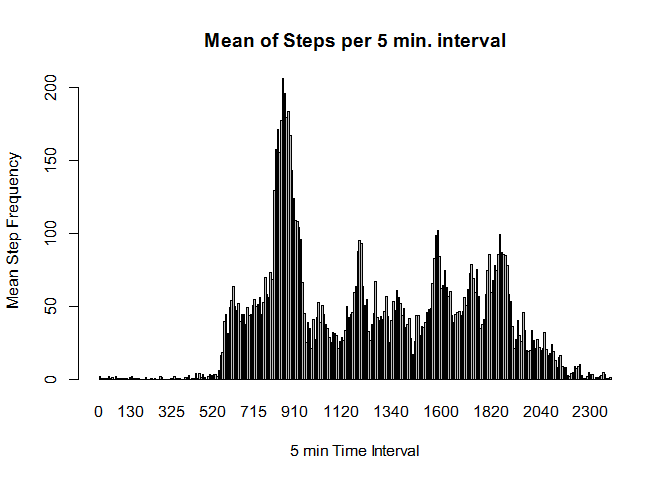
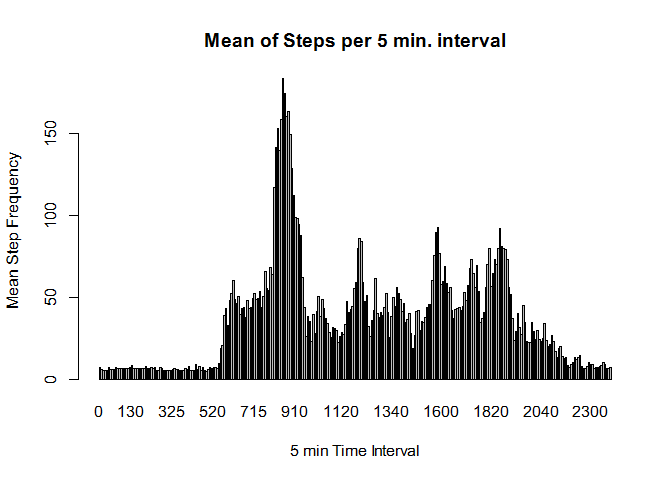
Activity Data Report 18:04

diff --git a/PA1_template.html b/PA1_template.html
@@ -189,17 +189,51 @@ spdtcm &lt;- summarise(group_by(g1m, group), spd = sum(steps))
 spitcm &lt;- summarise(group_by(hg2cm, group), spm = mean(steps))
 
 cmaverageStepsPerDay &lt;- round(mean(spdtcm$spd),0)
-cmmedianStepsPerDay &lt;- round(median(spdtcm$spd),0)</code></pre>
+cmmedianStepsPerDay &lt;- round(median(spdtcm$spd),0)
+
+# Determine row with max average steps
+cmMax &lt;- max(spitcm$spm)
+cmMaxRow &lt;- spitcm[spitcm$spm &gt;= cmMax,]
+cmmr &lt;- tpMaxRow[1,1]</code></pre>
 <p>The histogram for the steps per day foloows:</p>
 <pre class="r"><code>histinfo &lt;- hist(spdtcm$spd, main = &quot;Histogram of Steps per day --with Imputed Data&quot;,  xlab=&quot;Steps per Day&quot;, breaks=10)</code></pre>
[1 lines of base64/hex data omitted]
 <p>The following barchart shows the mean od steps per time interval – which also can be compared to the chart in the previous section.</p>
-<pre class="r"><code>barplot(spit$spm, names=spitcm$group, main =&quot;Mean of Steps per 5 min. interval&quot;,
+<pre class="r"><code>barplot(spitcm$spm, names=spitcm$group, main =&quot;Mean of Steps per 5 min. interval&quot;,
         xlab = &quot;5 min Time Interval&quot;, ylab= &quot;Mean Step Frequency&quot;)</code></pre>
[2 lines of base64/hex data omitted]
+<p>The effects of infill can be seen in that the early morning hours have been infilled. It seems implausible…</p>
 </div>
 <div id="are-there-differences-in-activity-patterns-between-weekdays-and-weekends" class="section level2">
 <h2>Are there differences in activity patterns between weekdays and weekends?</h2>
+<p>The following charts illustrate the difference between weekend activity and week day acitivty.</p>
+<p>First the code which creates the two datasets for week day and week end:</p>
+<pre class="r"><code>cmMax &lt;- max(spitcm$spm)
+cmMaxRow &lt;- spitcm[spitcm$spm &gt;= cmMax,]
+cmmr &lt;- tpMaxRow[1,1]
+
+we &lt;- cm[hg2cm$daytype == &quot;weekend&quot;,]
+wd &lt;- cm[hg2cm$daytype == &quot;weekday&quot;,]
+
+wegroup = factor(unique(we$interval))
+wecm &lt;- data.frame(group=wegroup, we)
+
+wdgroup = factor(unique(wd$interval))
+wdcm &lt;- data.frame(group=wdgroup, wd)
+
+spitwe &lt;- summarise(group_by(wecm, group), spm = mean(steps))
+spitwd &lt;- summarise(group_by(wdcm, group), spm = mean(steps))</code></pre>
+<p>A comparison of weekdays and weekends is presented here:</p>
+<pre class="r"><code>par(mfrow = c(1,2))
+plot(spitwe$spm,  main =&quot;Mean of Steps - WeekEnds&quot;,
+        xlab = &quot;5 min Time Interval&quot;, ylab= &quot;Mean Step Frequency&quot;, type=&quot;l&quot;)
+
+plot(spitwd$spm,  main =&quot;Mean of Steps - WeekDays&quot;,
+        xlab = &quot;5 min Time Interval&quot;, ylab= &quot;Mean Step Frequency&quot;,
+     type = &quot;l&quot;)</code></pre>
[1 lines of base64/hex data omitted]
+<pre class="r"><code>par(mfrow=c(1,1))</code></pre>
+<p>Thesre is a clear difference in the charts showing a more active weekend than weekdays.</p>
 </div>
 </div>
 

diff --git a/PA1_template.md b/PA1_template.md
@@ -155,6 +155,11 @@ spitcm <- summarise(group_by(hg2cm, group), spm = mean(steps))
 
 cmaverageStepsPerDay <- round(mean(spdtcm$spd),0)
 cmmedianStepsPerDay <- round(median(spdtcm$spd),0)
+
+# Determine row with max average steps
+cmMax <- max(spitcm$spm)
+cmMaxRow <- spitcm[spitcm$spm >= cmMax,]
+cmmr <- tpMaxRow[1,1]
 ```
 
 The histogram for the steps per day foloows:
@@ -170,13 +175,60 @@ The following barchart shows the mean od steps per time interval -- which also c
 
 
 ```r
-barplot(spit$spm, names=spitcm$group, main ="Mean of Steps per 5 min. interval",
+barplot(spitcm$spm, names=spitcm$group, main ="Mean of Steps per 5 min. interval",
         xlab = "5 min Time Interval", ylab= "Mean Step Frequency")
 ```
 
 ![](PA1_template_files/figure-html/unnamed-chunk-5-1.png) 
 
+The effects of infill can be seen in that the early morning hours have been infilled. It seems implausible...
+
 
 
 
 ## Are there differences in activity patterns between weekdays and weekends?
+
+The following charts illustrate the difference between weekend activity and week day acitivty.
+
+First the code which creates the two datasets for week day and week end:
+
+
+```r
+cmMax <- max(spitcm$spm)
+cmMaxRow <- spitcm[spitcm$spm >= cmMax,]
+cmmr <- tpMaxRow[1,1]
+
+we <- cm[hg2cm$daytype == "weekend",]
+wd <- cm[hg2cm$daytype == "weekday",]
+
+wegroup = factor(unique(we$interval))
+wecm <- data.frame(group=wegroup, we)
+
+wdgroup = factor(unique(wd$interval))
+wdcm <- data.frame(group=wdgroup, wd)
+
+spitwe <- summarise(group_by(wecm, group), spm = mean(steps))
+spitwd <- summarise(group_by(wdcm, group), spm = mean(steps))
+```
+A comparison of weekdays and weekends is presented here:
+
+
+```r
+par(mfrow = c(1,2))
+plot(spitwe$spm,  main ="Mean of Steps - WeekEnds",
+        xlab = "5 min Time Interval", ylab= "Mean Step Frequency", type="l")
+
+plot(spitwd$spm,  main ="Mean of Steps - WeekDays",
+        xlab = "5 min Time Interval", ylab= "Mean Step Frequency",
+     type = "l")
+```
+
+![](PA1_template_files/figure-html/unnamed-chunk-7-1.png) 
+
+```r
+par(mfrow=c(1,1))
+```
+
+
+Thesre is a clear difference in the charts showing a more active weekend than weekdays.
+
